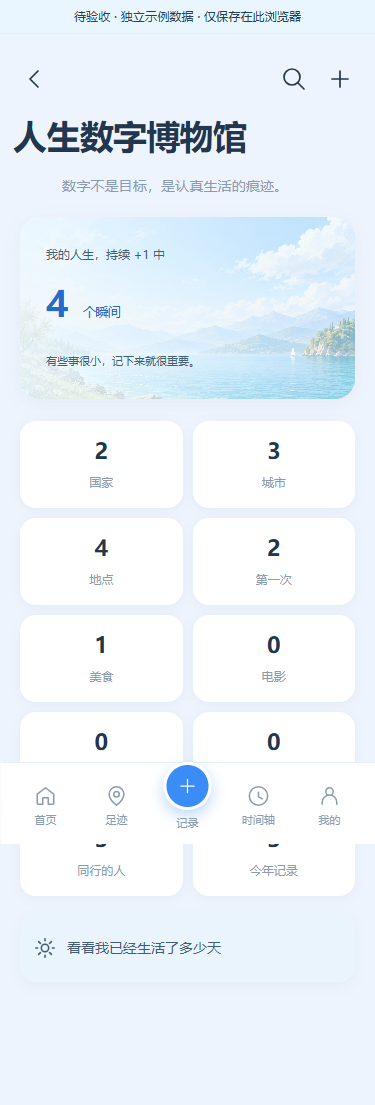
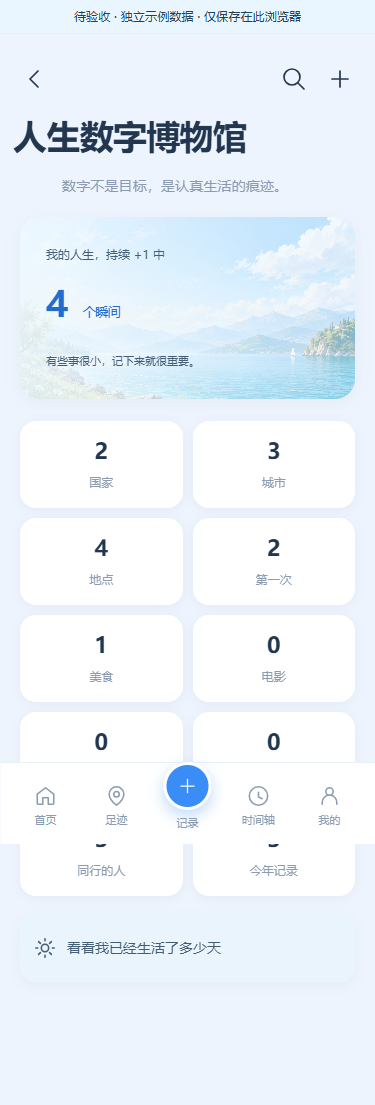
desktop shell: restore codex branding/backdrop, taller panel, tighter opaque header
- drop the .brand overrides so the +1 mark and wordmark return to codex values
- drop the .app-backdrop override so the lake backdrop shows again on desktop
- desktop panel 460x591 -> 420x629 (aspect .78 -> .67) with 24/18 margins
- header background is now opaque white instead of rgba(...,.96)
- scrolled (compact) header 81px -> 51px; icon buttons need min-height override
- add verify-desktop-shell.cjs; verify-experience still passes 77+5 checks

diff --git a/prototype.css b/prototype.css
@@ -24,11 +24,10 @@
   --pro-tap: 44px;
 }
 
-/* ── 页面底色与留白 ───────────────────────────────── */
-body { background: var(--pro-canvas); }
+/* ── 页面底色与留白 ───────────────────────────────
+ * 桌面端页面背景沿用 codex 的湖景 backdrop（.app-backdrop 不再覆盖）。 */
 .phone { background: var(--pro-canvas); }
 .page-content { padding-inline: 20px; padding-bottom: 108px; }
-.app-backdrop { background: var(--pro-canvas); }
 
 /* ── 页面标题：原型为大号左对齐标题 + 右侧工具 ─────── */
 .page-heading { display: flex; flex-wrap: wrap; align-items: center; justify-content: space-between; gap: 8px; padding-top: 8px; }
@@ -53,11 +52,8 @@ body { background: var(--pro-canvas); }
   text-align: left;
 }
 
-/* ── 首页品牌栏 ───────────────────────────────────── */
-.app-header { padding-top: 10px; }
-.brand b { font-size: 34px; }
-.brand span { font-size: 15px; font-weight: 700; color: var(--pro-ink); }
-.brand small { font-size: 11px; color: var(--pro-sub); font-weight: 500; }
+/* ── 首页品牌栏 ───────────────────────────────────
+ * logo 完全沿用 codex 原样（字号 / 字重 / 字距都不覆盖）。 */
 .header-tools { gap: 4px; }
 .header-tools .icon-button { width: var(--pro-tap); height: var(--pro-tap); }
 .hello-line { display: none; }
@@ -469,6 +465,27 @@ body { background: var(--pro-canvas); }
 @media (min-width: 900px) {
   .phone { background: var(--pro-canvas); }
   .page-content { padding-inline: 20px; }
+}
+
+/* ── 页眉：不透明，滚动时不再透出下方内容 ──────────── */
+.phone .app-header { background: #fff; backdrop-filter: none; }
+
+/* ── 桌面预览壳：更接近手机的瘦长比例 ─────────────
+ * 面板 460×591（近方形）→ 420×629，上下留白收紧。
+ * 100dvh 里要扣掉 body 的 32px 顶距 + 24/18 的上下边距。 */
+@media (min-width: 1100px) {
+  body:not(.on-cover) .phone {
+    width: 420px;
+    margin: 24px calc(50% - 460px) 18px auto;
+    height: calc(100dvh - 74px);
+  }
+
+  /* 滚动后的紧凑页眉：缩得更多，占的版面更少 */
+  .phone .app-header.is-compact { padding-top: 12px; padding-bottom: 6px; box-shadow: 0 4px 10px rgba(36, 76, 106, .06); }
+  .phone .app-header.is-compact .brand > b { font-size: 24px; letter-spacing: -3px; }
+  .phone .app-header.is-compact .brand > span { font-size: 11px; }
+  .phone .app-header.is-compact .header-tools .icon-button { width: 32px; height: 32px; min-width: 32px; min-height: 32px; }
+  .phone .app-header.is-compact .header-tools .icon-button .icon { width: 17px; height: 17px; }
 }
 
 /* ── 心情选择行（原型 04 新增记录页） ──────────────── */

diff --git a/docs/PROTOTYPE_ALIGNMENT.md b/docs/PROTOTYPE_ALIGNMENT.md
@@ -31,3 +31,17 @@
 - 心情使用 emoji 圆形按钮，原型为绘制图标。
 - 照片素材沿用 codex 版本，未按原型替换。
 - 地图为足迹示意区，未接入真实地图 SDK。
+
+## 第二轮修订（桌面壳体）
+
+面向"更像手机、更少遮挡"的桌面预览体验，`prototype.css` 追加以下覆盖：
+
+| 项 | 修订前 | 修订后 |
+| --- | --- | --- |
+| 品牌 logo | 上一轮把「+1」压到 34px、名称字重提到 700 | 全部还原为 codex 原值（侧栏 49px / 页眉 44px，名称 550–600 字重），不再覆盖 |
+| 桌面页面背景 | 被 `.app-backdrop` 覆盖成纯色 | 还原 codex 的湖景渐变 + `cover-landscape.png` |
+| 面板比例 | 460×591（≈0.78，近方形） | 420×629（≈0.67），上下留白 24/18 |
+| 页眉底色 | `rgba(252,253,255,.96)` 半透明，滚动时下方内容透出 | 纯白不透明 |
+| 滚动后页眉 | 81px 高，`+1` 44→32px | 51px 高，`+1` 24px、名称 11px、图标按钮 32px（需同时覆盖 `min-height:44px`） |
+
+自查脚本：`verify-desktop-shell.cjs`（1536×703 渲染、滚动前后各截图一次并输出关键尺寸）。
